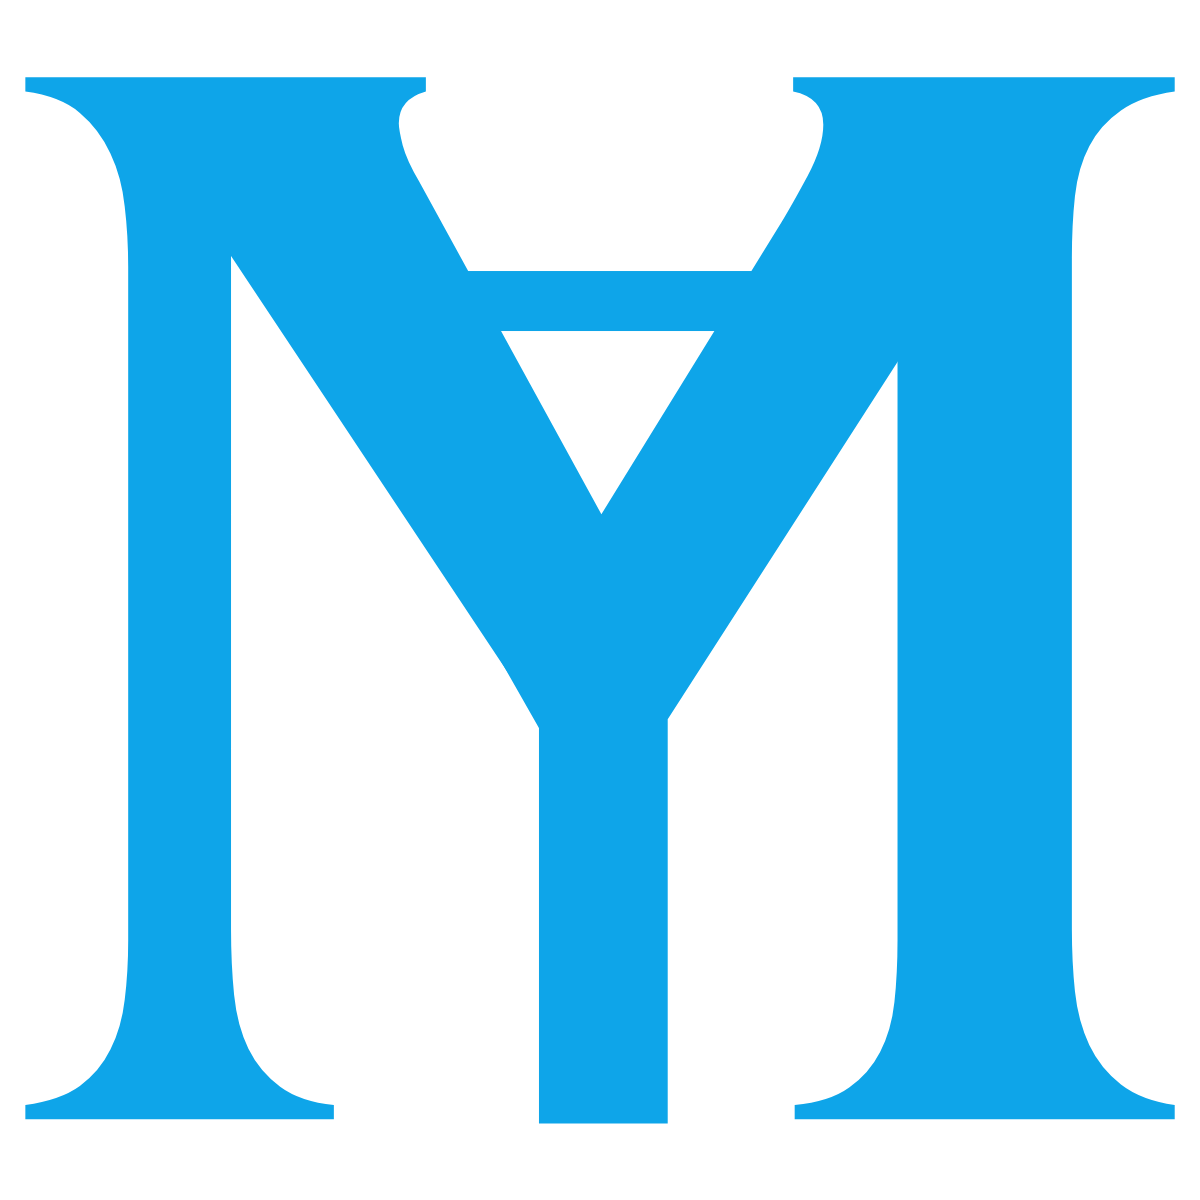
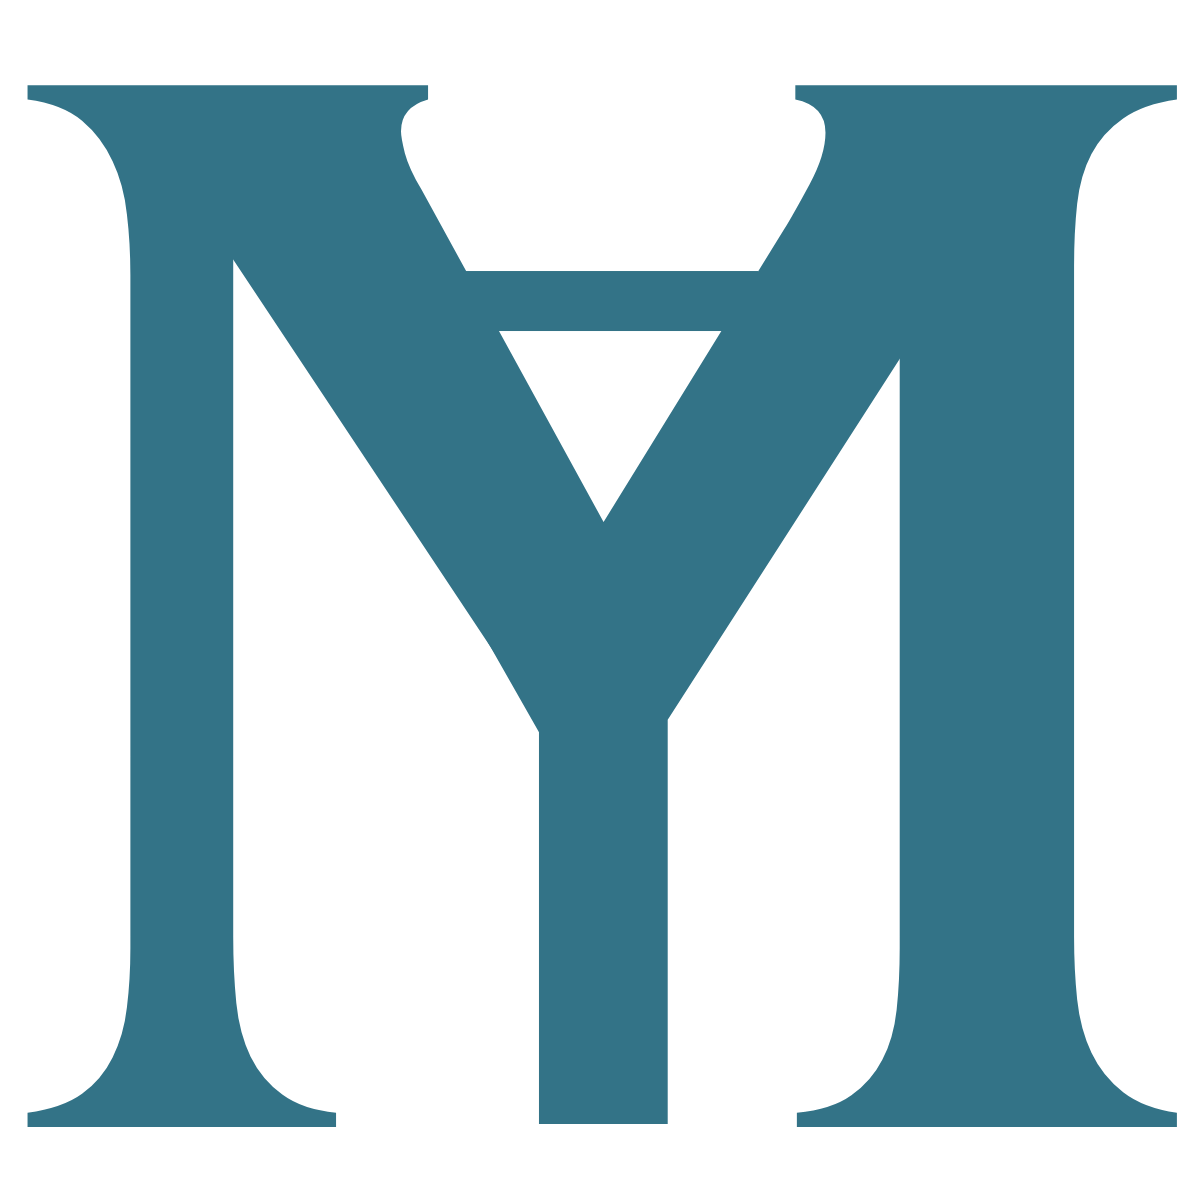
images with the new color, fixed 2px page height because header is now 64px tall instead of 66px, fix to the fkin mobile menu not being tall enough when the mobile browser hides the link bar or whatever it's called at the top of the browser

diff --git a/src/components/ChatroomMembers.tsx b/src/components/ChatroomMembers.tsx
@@ -21,7 +21,7 @@ export const ChatroomMembers = ({ ownerId }: IChatroomMembersProps) => {
     const pendingChatroomInvites = useGetChatroomPendingInvites(chatId);
 
     return (
-        <aside className="flex-1 overflow-y-auto bg-glacier-600 p-3 scrollbar-thin scrollbar-track-black scrollbar-thumb-sky-100 sm:h-full sm:w-60 sm:py-0">
+        <aside className="flex-1 overflow-y-auto bg-glacier-600 p-3 scrollbar-thin scrollbar-track-black scrollbar-thumb-glacier-200 sm:h-full sm:w-60 sm:py-0">
             {chatroomMembers.isLoading ? (
                 <div className="h4 flex w-full flex-col gap-2">
                     <div className="flex h-4 w-full items-center rounded-md bg-white p-4 shadow">
@@ -38,7 +38,7 @@ export const ChatroomMembers = ({ ownerId }: IChatroomMembersProps) => {
                     <h2 className="mb-2 rounded-md bg-white p-2 text-xs font-bold shadow">
                         Members - {chatroomMembers.data?.length}
                     </h2>
-                    <div className="flex w-full flex-col gap-2 overflow-y-auto scrollbar-thin scrollbar-track-black scrollbar-thumb-sky-100">
+                    <div className="flex w-full flex-col gap-2 overflow-y-auto scrollbar-thin scrollbar-track-black scrollbar-thumb-glacier-200">
                         {chatroomMembers.data?.map((member) => (
                             <MemberCard
                                 key={member.id}
@@ -61,7 +61,7 @@ export const ChatroomMembers = ({ ownerId }: IChatroomMembersProps) => {
                     <h2 className="my-2 mt-6 rounded-md bg-white p-2 text-xs font-bold shadow">
                         Pending invites - {pendingChatroomInvites.data?.length}
                     </h2>
-                    <div className="flex w-full flex-col gap-2 overflow-y-auto scrollbar-thin scrollbar-track-black scrollbar-thumb-sky-100">
+                    <div className="flex w-full flex-col gap-2 overflow-y-auto scrollbar-thin scrollbar-track-black scrollbar-thumb-glacier-200">
                         {pendingChatroomInvites.data?.map((member) => (
                             <MemberCard
                                 key={member.id}

diff --git a/src/pages/chats/[chatId].tsx b/src/pages/chats/[chatId].tsx
@@ -303,7 +303,7 @@ const ChatPage = () => {
 
     if (chatroom.isError && chatroom.error instanceof Error) {
         return (
-            <div className="mx-auto flex max-h-[calc(100svh-66px)] w-full max-w-screen-lg flex-col items-center justify-center px-8 py-4">
+            <div className="mx-auto flex max-h-[calc(100svh-64px)] w-full max-w-screen-lg flex-col items-center justify-center px-8 py-4">
                 <div className="flex flex-col items-center gap-4">
                     <span className="text-4xl">😅</span>
                     <p className="text-center text-xl font-medium">
@@ -317,8 +317,8 @@ const ChatPage = () => {
     if (!chatroom.data) return null;
 
     return (
-        <div className="flex max-h-[calc(100svh-66px)] w-full flex-row">
-            <div className="flex max-h-[calc(100svh-66px)] w-full flex-col">
+        <div className="flex max-h-[calc(100svh-64px)] w-full flex-row">
+            <div className="flex max-h-[calc(100svh-64px)] w-full flex-col">
                 <div className="flex h-14 w-full items-center justify-between px-4 shadow sm:hidden">
                     <div className="line-clamp-2 flex items-center gap-2 text-sm font-semibold">
                         <Link

diff --git a/src/components/ChatroomMessages.tsx b/src/components/ChatroomMessages.tsx
@@ -259,7 +259,7 @@ export const ChatroomMessages = ({
         return (
             <div
                 aria-label="Error state"
-                className="mx-auto flex max-h-[calc(100svh-66px)] w-full max-w-screen-lg flex-1 flex-col items-center justify-center px-8 py-4"
+                className="mx-auto flex max-h-[calc(100svh-64px)] w-full max-w-screen-lg flex-1 flex-col items-center justify-center px-8 py-4"
             >
                 <div className="flex flex-col items-center gap-4">
                     <span className="text-4xl">😅</span>
@@ -273,7 +273,7 @@ export const ChatroomMessages = ({
 
     return (
         <>
-            <div className="flex flex-1 flex-col overflow-y-auto p-2 px-4 scrollbar-thin scrollbar-track-black scrollbar-thumb-sky-100">
+            <div className="flex flex-1 flex-col overflow-y-auto p-2 px-4 scrollbar-thin scrollbar-track-black scrollbar-thumb-glacier-200">
                 {chatroomMessages.isLoading ? (
                     <div className="mt-auto flex w-full items-center justify-center">
                         <LoadingSpinner size={32} color="rgb(14 165 233)" />

diff --git a/src/pages/index.tsx b/src/pages/index.tsx
@@ -47,7 +47,7 @@ export default function Home({
         <div className="flex w-full flex-1 flex-col items-center overflow-x-hidden">
             <div className="flex h-full w-full max-w-screen-lg flex-col items-start gap-40 px-2">
                 <article className="flex min-h-[min(calc(100svh-200px),1024px)] w-full flex-col items-center justify-center gap-8 py-4">
-                    {/* <ImageWithFallback
+                    <ImageWithFallback
                         src={LogoTextRectangle}
                         alt="Yet another messaging app"
                         width={500}
@@ -64,7 +64,7 @@ export default function Home({
                         className="md:hidden"
                         fallback={FallbackLogoTextSquare}
                         priority
-                    /> */}
+                    />
                     <Link
                         prefetch={false}
                         href="/chats"

diff --git a/src/components/MobileMenu.tsx b/src/components/MobileMenu.tsx
@@ -36,7 +36,7 @@ export const MobileMenu = ({ isExpanded, setIsExpanded }: IMobileMenuProps) => {
         <div
             id="menu"
             ref={mobileRef}
-            className="absolute inset-0 top-16 z-20 flex h-[calc(100svh-66px)] w-full flex-col items-center bg-white px-4 py-8"
+            className="b-[64px] absolute inset-0 top-16 z-20 flex h-[100svh] w-full flex-col items-center bg-glacier-50 px-4 py-8"
         >
             {session.data?.user && (
                 <span className="text-center font-mono text-xl">
@@ -103,6 +103,7 @@ export const MobileMenu = ({ isExpanded, setIsExpanded }: IMobileMenuProps) => {
                     size={56}
                 />
             </a>
+            <div className="h-16" />
         </div>
     );
 };

diff --git a/src/components/Header.tsx b/src/components/Header.tsx
@@ -1,12 +1,11 @@
 import Link from "next/link";
-import { RiChat1Line } from "react-icons/ri";
 import { VscBellDot, VscChromeClose, VscMenu } from "react-icons/vsc";
 import { LoadingSpinner } from "./LoadingSpinner";
 import { MobileMenu } from "./MobileMenu";
 import Image from "next/image";
 import { signOut, useSession } from "next-auth/react";
 import { useGetUserPendingInvitesQuery } from "../hooks/useGetUserPendingInvitesQuery";
-import DefaultPic from "../../public/default.png";
+import DefaultPic from "../../public/default-darkbg.png";
 import LogoWhite from "../../public/logo-white.webp";
 import FallbackLogoWhite from "../../public/logo-white.png";
 import { useEffect, useState } from "react";

diff --git a/src/components/ErrorBoundary.tsx b/src/components/ErrorBoundary.tsx
@@ -25,7 +25,7 @@ export class ErrorBoundary extends Component<Props, State> {
     render() {
         if (this.state.hasError) {
             return (
-                <div className="mx-auto flex min-h-[calc(100svh-66px)] w-full max-w-screen-2xl flex-1 flex-col items-center justify-center gap-4 p-4 text-center">
+                <div className="mx-auto flex min-h-[calc(100svh-64px)] w-full max-w-screen-2xl flex-1 flex-col items-center justify-center gap-4 p-4 text-center">
                     <div className="flex flex-col items-center justify-center text-center text-xl">
                         <h1>
                             Well, well, well, if it isn&apos;t the consequences

diff --git a/src/pages/layout.tsx b/src/pages/layout.tsx
@@ -140,12 +140,12 @@ const Layout = ({ children }: ILayoutProps) => {
                     showSpinner: false,
                     trickle: true,
                 }}
-                color="black"
+                color="rgb(219 239 242)"
                 showOnShallow={false}
             />
             <CookieBanner />
             <ErrorBoundary>
-                <main className="mx-auto flex min-h-[calc(100svh-66px)] w-full flex-1">
+                <main className="mx-auto flex min-h-[calc(100svh-64px)] w-full flex-1">
                     {children}
                 </main>
             </ErrorBoundary>

diff --git a/src/components/ChatroomSettings.tsx b/src/components/ChatroomSettings.tsx
@@ -88,7 +88,7 @@ export const ChatroomSettings = ({
     };
 
     return (
-        <div className="w-full flex-1 overflow-y-auto bg-glacier-600 scrollbar-thin scrollbar-track-black scrollbar-thumb-sky-100 sm:mx-auto sm:my-20 sm:max-h-[50svh] sm:max-w-lg sm:rounded-xl sm:bg-opacity-100">
+        <div className="w-full flex-1 overflow-y-auto bg-glacier-600 scrollbar-thin scrollbar-track-black scrollbar-thumb-glacier-200 sm:mx-auto sm:my-20 sm:max-h-[50svh] sm:max-w-lg sm:rounded-xl sm:bg-opacity-100">
             {isModalOpen ? (
                 <Portal
                     isInModal={true}

diff --git a/src/pages/404.tsx b/src/pages/404.tsx
@@ -2,7 +2,7 @@ import Link from "next/link";
 
 const Custom404 = () => {
     return (
-        <div className="mx-auto flex max-h-[calc(100svh-66px)] w-full max-w-screen-lg flex-col items-center justify-center px-8 py-4">
+        <div className="mx-auto flex max-h-[calc(100svh-64px)] w-full max-w-screen-lg flex-col items-center justify-center px-8 py-4">
             <div className="flex flex-col items-center gap-4">
                 <span className="text-5xl">🤨</span>
                 <p className="text-center text-2xl font-semibold">

diff --git a/src/components/ChatMessage.tsx b/src/components/ChatMessage.tsx
@@ -1,6 +1,6 @@
 import Image from "next/image";
 import { formatTime } from "../util/formatTime";
-import DefaultImage from "../../public/default.png";
+import DefaultImage from "../../public/default-lightbg.png";
 import { TChatroomMessage } from "../hooks/useGetChatroomQuery";
 import { VscTrash } from "react-icons/vsc";
 import { useDeleteMessageMutation } from "../hooks/useDeleteMessageMutation";

diff --git a/src/components/MemberCard.tsx b/src/components/MemberCard.tsx
@@ -1,5 +1,5 @@
 import Image from "next/image";
-import DefaultPic from "../../public/default.png";
+import DefaultPic from "../../public/default-lightbg.png";
 import { useSession } from "next-auth/react";
 import { User } from "@prisma/client";
 import { VscCircleSlash } from "react-icons/vsc";
